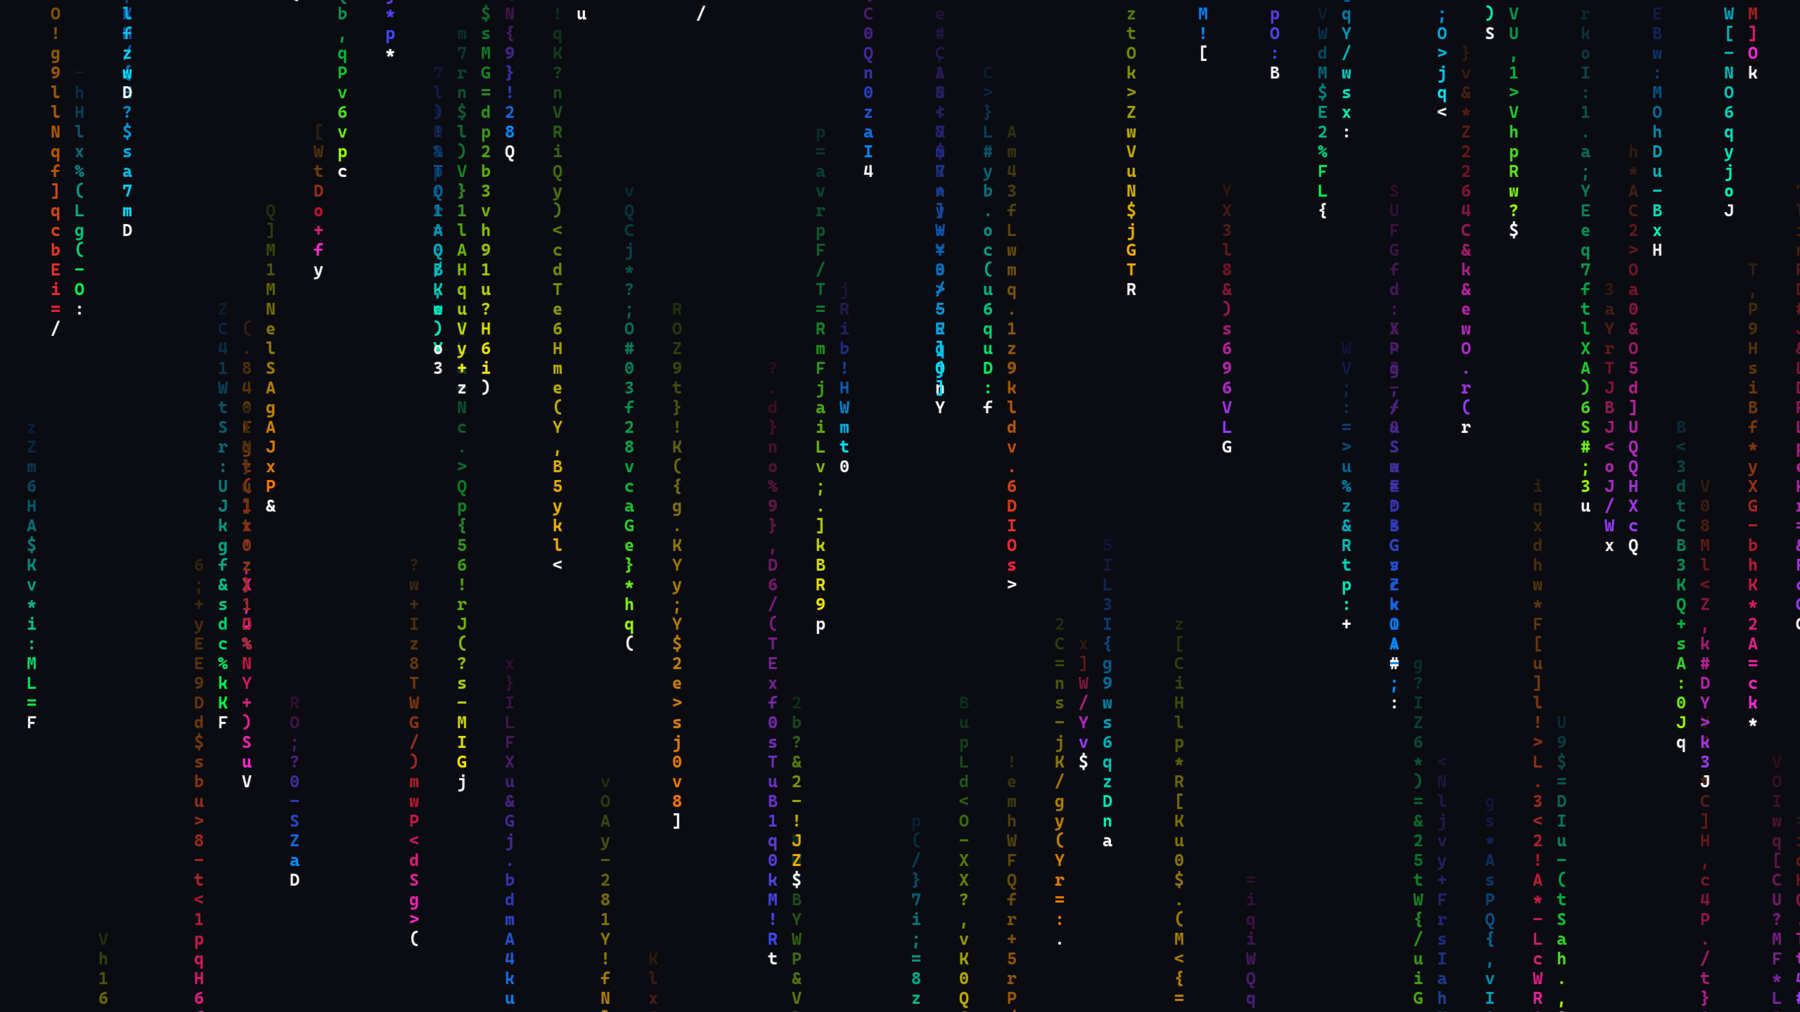
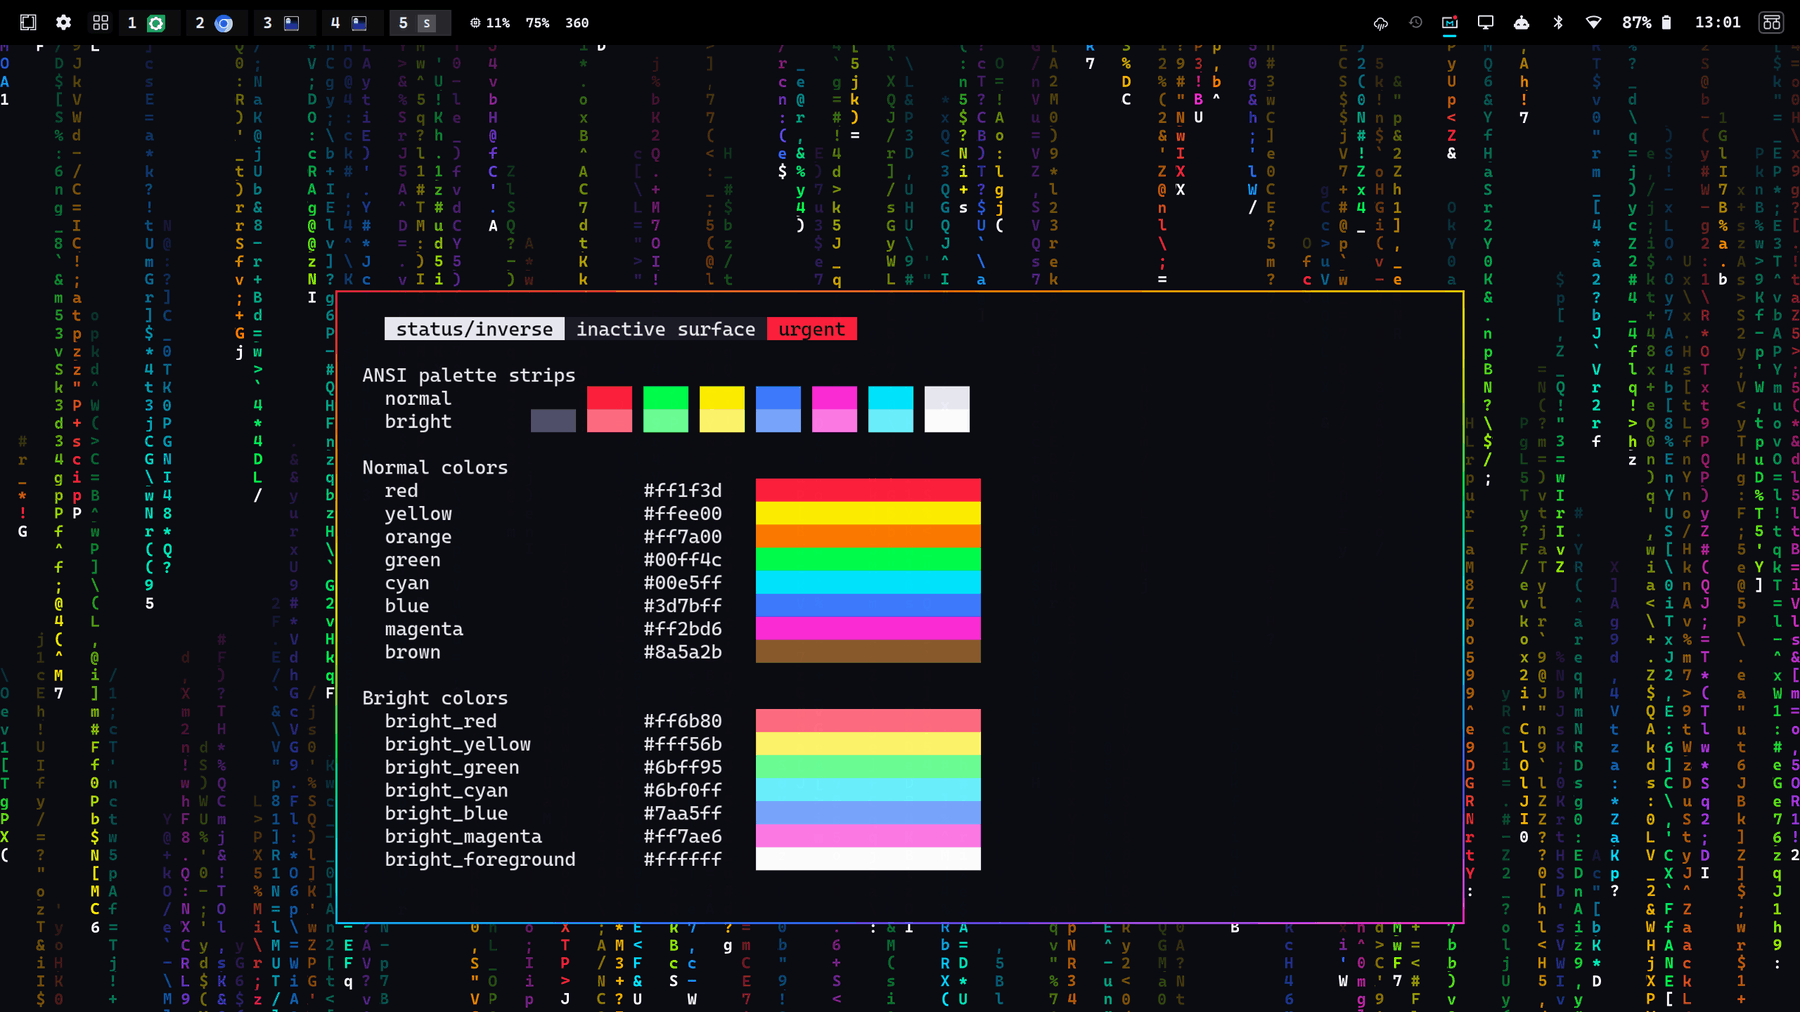
Meet Omarchy publishing requirements
- preview.png: real-desktop 16:9 shot, 1800x1012 like stock themes (245 KB, was 931 KB)
- screenshots as webp (Omarchy copies the theme on every switch)
- README: what installing changes, a Remove section, dependency table
- omatrix extras: warn that git reset --hard discards local plugin edits

diff --git a/README.md b/README.md
@@ -4,7 +4,7 @@ Full-rainbow RGB gaming lighting for [Omarchy](https://omarchy.org): saturated n
 like a Razer Chroma keyboard in spectrum-cycling mode. Windows get a rainbow light-strip border, and the desktop
 can run a live matrix rain in all twelve colours of the wheel with white tracer heads.
 
-![Spectrum: palette preview over the rainbow rain](screenshots/desktop.png)
+![Spectrum: palette preview over the rainbow rain](screenshots/desktop.webp)
 
 ## What's in it
 
@@ -14,7 +14,8 @@ can run a live matrix rain in all twelve colours of the wheel with white tracer 
 | `icons.theme` | GTK icon theme: `Yaru-magenta-dark` |
 | `omatrix.toml` | Settings for the live matrix-rain wallpaper (needs the [omatrix](https://github.com/0x1ocean/omarchy-omatrix) plugin; ignored without it) |
 | `backgrounds/1-spectrum-glow.webp` | Static wallpaper, used when the rain is off |
-| `preview.png` | Thumbnail for Omarchy's theme switcher |
+| `preview.png` | Thumbnail for Omarchy's theme switcher (1800×1012, a real desktop) |
+| `screenshots/` | The images in this README |
 | `extras/omatrix/` | Optional patches for the omatrix plugin that add the 12-colour rainbow rain ([details](extras/omatrix/README.md)) |
 
 ### Palette
@@ -42,11 +43,26 @@ omarchy theme install https://github.com/WhiskeyTangoFussell/omarchy-spectrum-th
 This clones the theme into `~/.config/omarchy/themes/spectrum` and applies it straight away. It shows up as
 **spectrum** in the theme switcher (`SUPER + SHIFT + CTRL + SPACE`).
 
-Update later with `omarchy theme update`, and remove with `omarchy theme remove spectrum`.
+**What installing changes:** the theme only supplies colours, an icon-theme name, a wallpaper and rain settings.
+It contains no code: no `.lua` files, terminal configs or scripts, so it can't run anything. Omarchy refuses to
+stage such files from a cloned theme anyway. Your own config files are not touched; switching to another theme
+puts everything back.
+
+Update later with `omarchy theme update`.
+
+## Remove
+
+```bash
+omarchy theme set tokyo-night        # or any other theme, if Spectrum is the current one
+omarchy theme remove spectrum        # deletes ~/.config/omarchy/themes/spectrum
+```
+
+If you applied the optional omatrix patches, see [removing them](extras/omatrix/README.md#remove). To remove
+omatrix entirely: `omarchy plugin remove io.github.0x1ocean.omatrix`.
 
 ## The matrix rain (optional)
 
-![Spectrum rain: twelve hues, white heads, each stream fading and shifting hue down its tail](screenshots/rain.png)
+![Spectrum rain: twelve hues, white heads, each stream fading and shifting hue down its tail](screenshots/rain.webp)
 
 The rain is drawn by the [omatrix](https://github.com/0x1ocean/omarchy-omatrix) shell plugin, which turns on
 whenever the active theme ships an `omatrix.toml`:
@@ -66,11 +82,17 @@ How it looks depends on which omatrix you have:
 The rain pauses behind fullscreen windows and while locked, and slows down on battery
 (`on_battery = "slow"`). The rain costs about 0.02 W on an M2 MacBook Air, which is negligible.
 
-## Requirements
+## Requirements and dependencies
 
-- Omarchy 4 (the shell-based release with `omarchy theme install` and shell plugins)
-- `Yaru-magenta-dark` icons — shipped with Omarchy
-- For the rain: the omatrix plugin; for the rainbow rain, also the patches in `extras/omatrix`
+| Needed for | Dependency | Where it comes from |
+|---|---|---|
+| The theme | Omarchy 4 (shell release with `omarchy theme install`) | — |
+| Icons | `Yaru-magenta-dark` | Ships with Omarchy |
+| Font in the rain | `CaskaydiaCove Nerd Font Mono` | Omarchy's default font |
+| The rain (optional) | [omatrix](https://github.com/0x1ocean/omarchy-omatrix) shell plugin, GPL-3.0-or-later | `omarchy plugin add` |
+| The rainbow rain (optional) | The 4 patches in [`extras/omatrix`](extras/omatrix/README.md) | This repository |
+
+Nothing else is downloaded or installed.
 
 ## Credits
 

diff --git a/extras/omatrix/README.md b/extras/omatrix/README.md
@@ -32,7 +32,8 @@ while Spectrum is applied.
 ## Plugin updates
 
 `omarchy plugin update` only fast-forwards, so with these commits on top it stops. To update, take the patches
-off, update, then put them back:
+off, update, then put them back. **`git reset --hard` discards any other local edits you made to the omatrix
+plugin**, so commit or save them first:
 
 ```bash
 cd ~/.config/omarchy/plugins/io.github.0x1ocean.omatrix
@@ -42,6 +43,8 @@ omarchy restart shell
 ```
 
 ## Remove
+
+This returns the plugin to stock upstream, again discarding local edits to it:
 
 ```bash
 cd ~/.config/omarchy/plugins/io.github.0x1ocean.omatrix && git reset --hard fe60537 && omarchy restart shell
